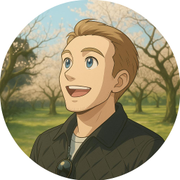
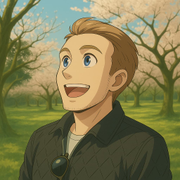
upadated all the images and metadata to use fullprofpic

diff --git a/scripts/generate-icons.js b/scripts/generate-icons.js
@@ -1,8 +1,11 @@
 const sharp = require('sharp');
 const path = require('path');
+const pngToIco = require('png-to-ico');
 
-const baseImagePath = path.join(__dirname, '../public/profile-ghibli.jpg');
+const baseImagePath = path.join(__dirname, '../public/fullprofpic.jpg');
 const faviconPngPath = path.join(__dirname, '../public/favicon-32.png');
+const favicon16PngPath = path.join(__dirname, '../public/favicon-16.png');
+const faviconIcoPath = path.join(__dirname, '../public/favicon.ico');
 const appleIconPath = path.join(__dirname, '../public/apple-touch-icon.png');
 
 async function generateFaviconPng() {
@@ -10,6 +13,30 @@ async function generateFaviconPng() {
   await sharp(baseImagePath)
     .resize(32, 32)
     .toFile(faviconPngPath);
+}
+
+async function generateFavicon16Png() {
+  // Favicon: 16x16 png
+  await sharp(baseImagePath)
+    .resize(16, 16)
+    .toFile(favicon16PngPath);
+}
+
+async function generateFaviconIco() {
+  // Favicon: .ico file (combine 16x16 and 32x32)
+  await sharp(baseImagePath)
+    .resize(32, 32)
+    .toFile(faviconPngPath);
+  await sharp(baseImagePath)
+    .resize(16, 16)
+    .toFile(favicon16PngPath);
+  await pngToIco([
+    favicon16PngPath,
+    faviconPngPath
+  ]).then(buf => {
+    const fs = require('fs');
+    fs.writeFileSync(faviconIcoPath, buf);
+  });
 }
 
 async function generateAppleIcon() {
@@ -21,6 +48,8 @@ async function generateAppleIcon() {
 
 (async () => {
   await generateFaviconPng();
+  await generateFavicon16Png();
+  await generateFaviconIco();
   await generateAppleIcon();
-  console.log('favicon-32.png and apple-touch-icon.png generated from profile-ghibli.jpg');
+  console.log('favicon-16.png, favicon-32.png, favicon.ico, and apple-touch-icon.png generated from fullprofpic.jpg');
 })();

diff --git a/scripts/generate-og-image.js b/scripts/generate-og-image.js
@@ -2,7 +2,7 @@ const sharp = require('sharp');
 const path = require('path');
 const fs = require('fs');
 
-const baseImagePath = path.join(__dirname, '../public/profile-ghibli.jpg');
+const baseImagePath = path.join(__dirname, '../public/fullprofpic.jpg');
 const outputImagePath = path.join(__dirname, '../public/og-image.jpg');
 
 const WIDTH = 1200;
@@ -13,14 +13,18 @@ const TEXT = 'JMM LABS';
 const FONT_SIZE = 54;
 
 async function createOGImage() {
-  const base = sharp(baseImagePath).resize(WIDTH, HEIGHT, { fit: 'cover' });
+  // Resize to 1200px wide (will be 1200x1200), then extract a 1200x630 region with a custom vertical offset
+  const base = await sharp(baseImagePath)
+    .resize(1200, 1200) // upscale to 1200x1200
+    .extract({ left: 0, top: 120, width: 1200, height: 630 }) // crop region
+    .toBuffer();
   const overlay = Buffer.from(
     `<svg width="${WIDTH}" height="${HEIGHT}" xmlns="http://www.w3.org/2000/svg">
       <rect x="0" y="${HEIGHT-OVERLAY_HEIGHT}" width="${WIDTH}" height="${OVERLAY_HEIGHT}" fill="rgba(${OVERLAY_COLOR.r},${OVERLAY_COLOR.g},${OVERLAY_COLOR.b},${OVERLAY_COLOR.alpha})" />
       <text x="50%" y="${HEIGHT-OVERLAY_HEIGHT/2+FONT_SIZE/3}" text-anchor="middle" font-family="'Segoe UI', 'Arial', sans-serif" font-size="${FONT_SIZE}" fill="#fff" font-weight="bold">${TEXT}</text>
     </svg>`
   );
-  await base
+  await sharp(base)
     .composite([{ input: overlay, top: 0, left: 0 }])
     .toFile(outputImagePath);
   console.log('OG image generated at', outputImagePath);

diff --git a/app/page.tsx b/app/page.tsx
@@ -19,13 +19,13 @@ export default function Page() {
           <div className="flex flex-col items-center">
             <div className="rounded-full bg-muted flex items-center justify-center mb-8" style={{ width: 'min(80vw,320px)', height: 'min(80vw,320px)' }}>
               <img
-                alt="Jacob Meyer profile, Ghibli style"
+                alt="Jacob Meyer profile, Full Profile Picture"
                 width={280}
                 height={280}
                 decoding="async"
                 className="rounded-full object-cover shadow-2xl w-[70vw] max-w-[280px] h-[70vw] max-h-[280px]"
                 style={{ color: 'transparent' }}
-                src="/profile-ghibli.jpg"
+                src="/fullprofpic.jpg"
               />
             </div>
             <p className="text-lg sm:text-xl md:text-2xl text-muted-foreground text-center max-w-2xl mb-8 px-2 sm:px-0 break-words">
